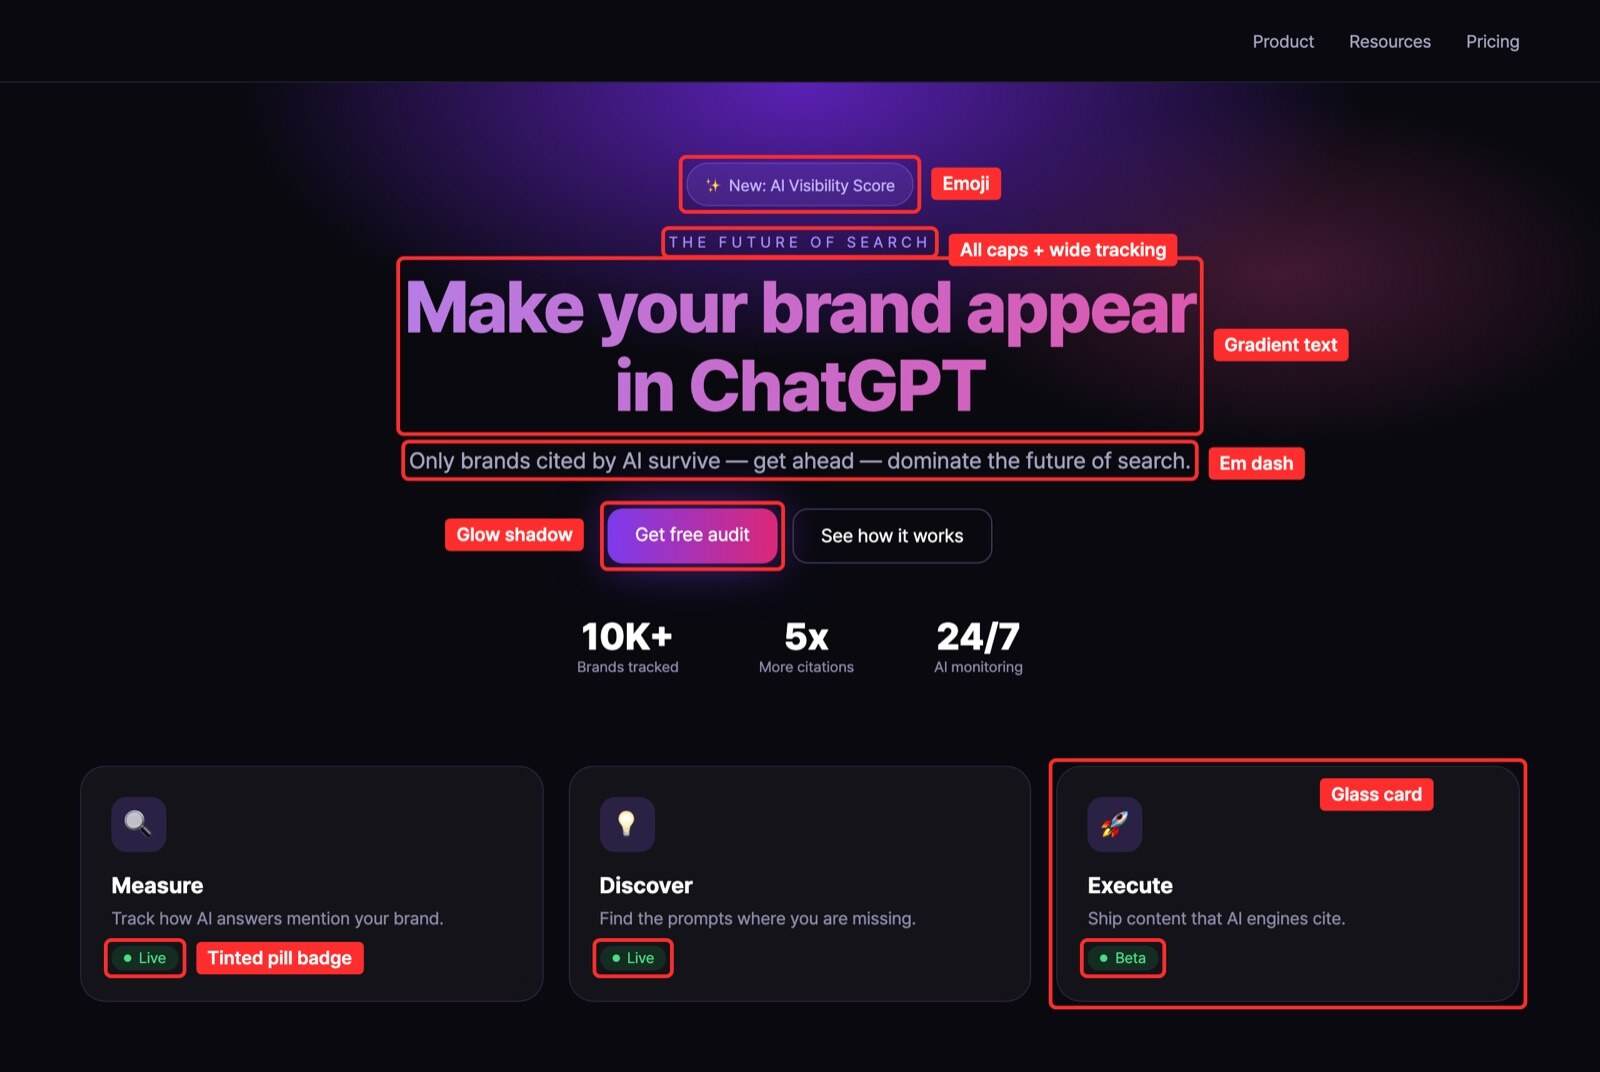
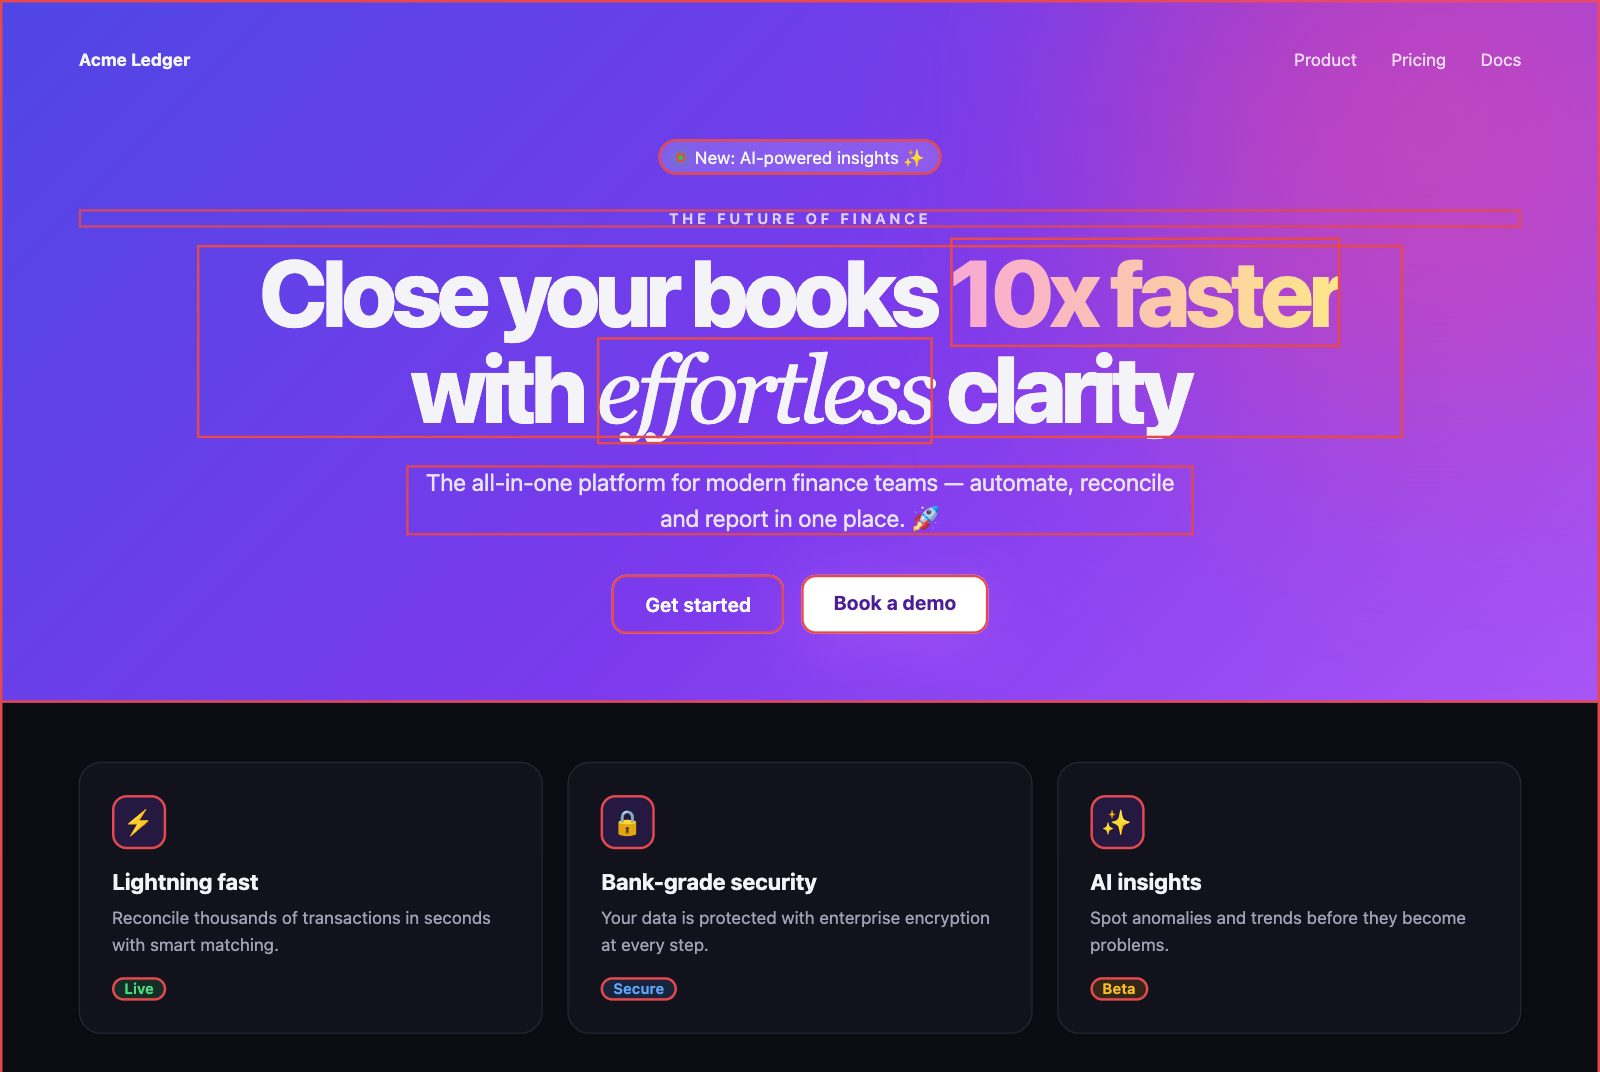
fix(web): draw the home comparison from Taster's own rebuild example
The before and after pictures on the home page were a capture of a real site with a
third party logo in it. They are now rendered from examples/rebuild (Acme Ledger, a
made-up product): before.html with the detector's outlines on every finding, and
after.html, the same content rebuilt to the rules, at the same 1600x1072 JPEG size.
web/scripts/compare/render.mjs makes them again and draws the emoji with Noto Color
Emoji rather than the system's own art. The captions and alt text say what they are.

diff --git a/web/app/diagnose.tsx b/web/app/diagnose.tsx
@@ -99,16 +99,19 @@ export function Diagnose({ initialUrl, ruleCount }: { initialUrl: string; ruleCo
         <Report result={state.result} sectionRef={resultRef} />
       ) : (
         <section className="sample" aria-labelledby="sample-title">
-          <h2 id="sample-title">AI 가 그대로 만든 판과 실제 사이트</h2>
-          <p className="sample-lede">같은 첫 화면입니다. 왼쪽은 AI 가 그대로 만든 판에 걸린 규칙 이름을 붙인 것, 오른쪽은 사람이 다듬은 실제 사이트입니다. 가운데 선을 좌우로 끌어 보세요.</p>
+          {/* web/scripts/compare/render.mjs draws both pictures from examples/rebuild, a made-up product. */}
+          <h2 id="sample-title">Taster 의 재구성 예시</h2>
+          <p className="sample-lede">
+            저장소의 examples/rebuild 에 있는 가상의 서비스 Acme Ledger 입니다. 왼쪽은 AI 가 자주 남기는 흔적을 모아 만든 예시 페이지를 Taster 로 잰 화면으로, 빨간 테두리가 규칙에 걸린 곳입니다. 오른쪽은 Taster 가 같은 내용을 규칙대로 다시 지은 판입니다. 가운데 선을 좌우로 끌어 보세요.
+          </p>
           <CompareReveal
-            label="AI 가 그대로 만든 판과 실제 사이트 비교"
-            before={{ src: '/compare/before.jpg', alt: 'AI 가 그대로 만든 서비스 첫 화면. 이모지, 대문자 넓은 자간, 그라디언트 글자, 엠대시, 빛 번짐 버튼, 틴트 알약 배지, 유리 카드에 빨간 이름표' }}
-            after={{ src: '/compare/after.jpg', alt: '사람이 다듬은 같은 서비스의 실제 첫 화면. 흰 글자 제목과 흰 버튼 하나, 입자 구 배경' }}
+            label="Taster 재구성 예시의 고치기 전과 다시 지은 판 비교"
+            before={{ src: '/compare/before.jpg', alt: 'Acme Ledger 예시 페이지의 첫 화면. 보라 그라디언트 바탕, 이모지가 든 알약 공지, 대문자 넓은 자간 머리말, 그라디언트 글자와 이탤릭 세리프 한 단어가 섞인 제목, 엠대시 문장, 빛 번짐 버튼, 이모지 타일 카드 세 장과 틴트 알약 배지. 걸린 요소마다 빨간 테두리' }}
+            after={{ src: '/compare/after.jpg', alt: '같은 내용을 다시 지은 첫 화면. 어두운 바탕에 왼쪽 정렬 제목과 설명, 버튼 하나와 글자 링크, 아이콘 카드 대신 선으로 나눈 기능 목록' }}
           />
           <div className="sample-captions">
-            <p>AI 가 그대로 만든 판</p>
-            <p>실제 사이트</p>
+            <p>고치기 전, before.html</p>
+            <p>다시 지은 판, after.html</p>
           </div>
         </section>
       )}
